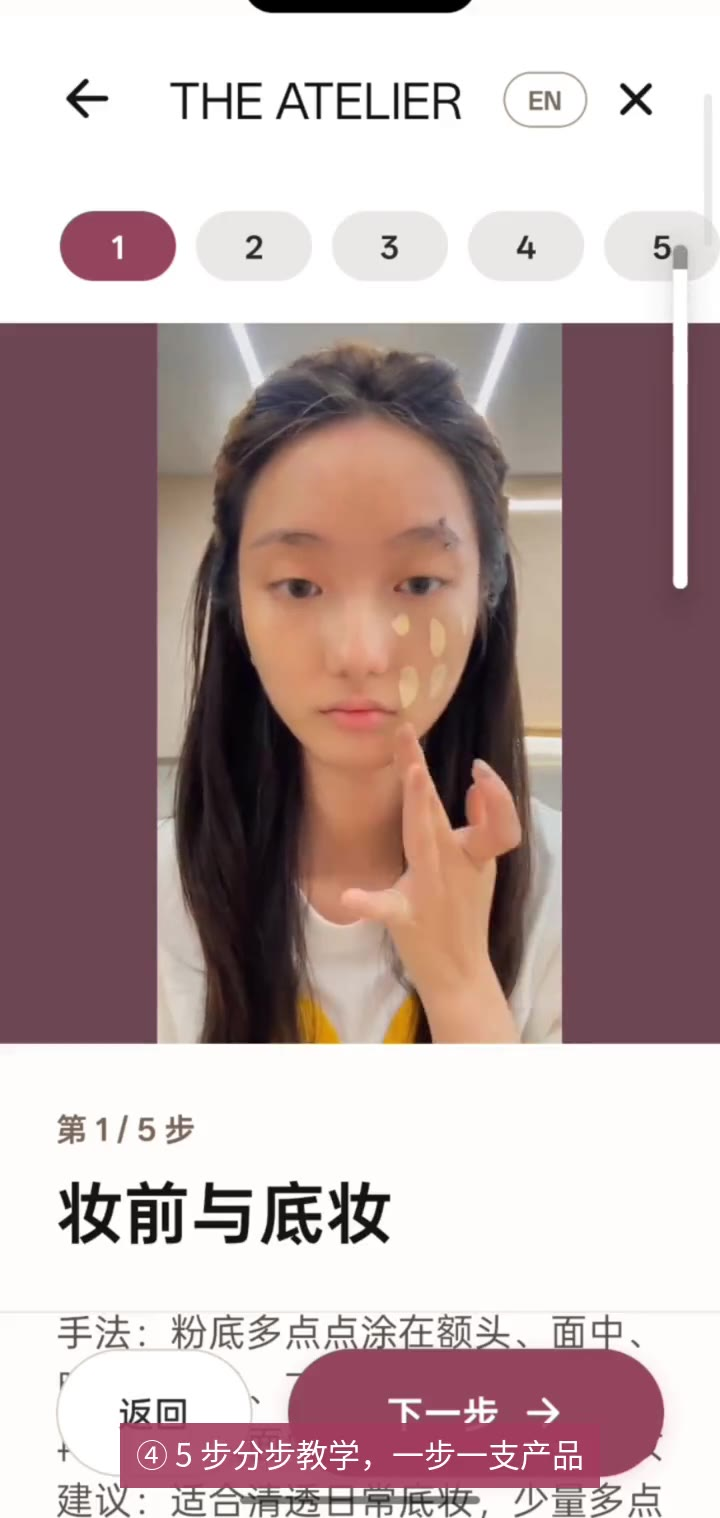
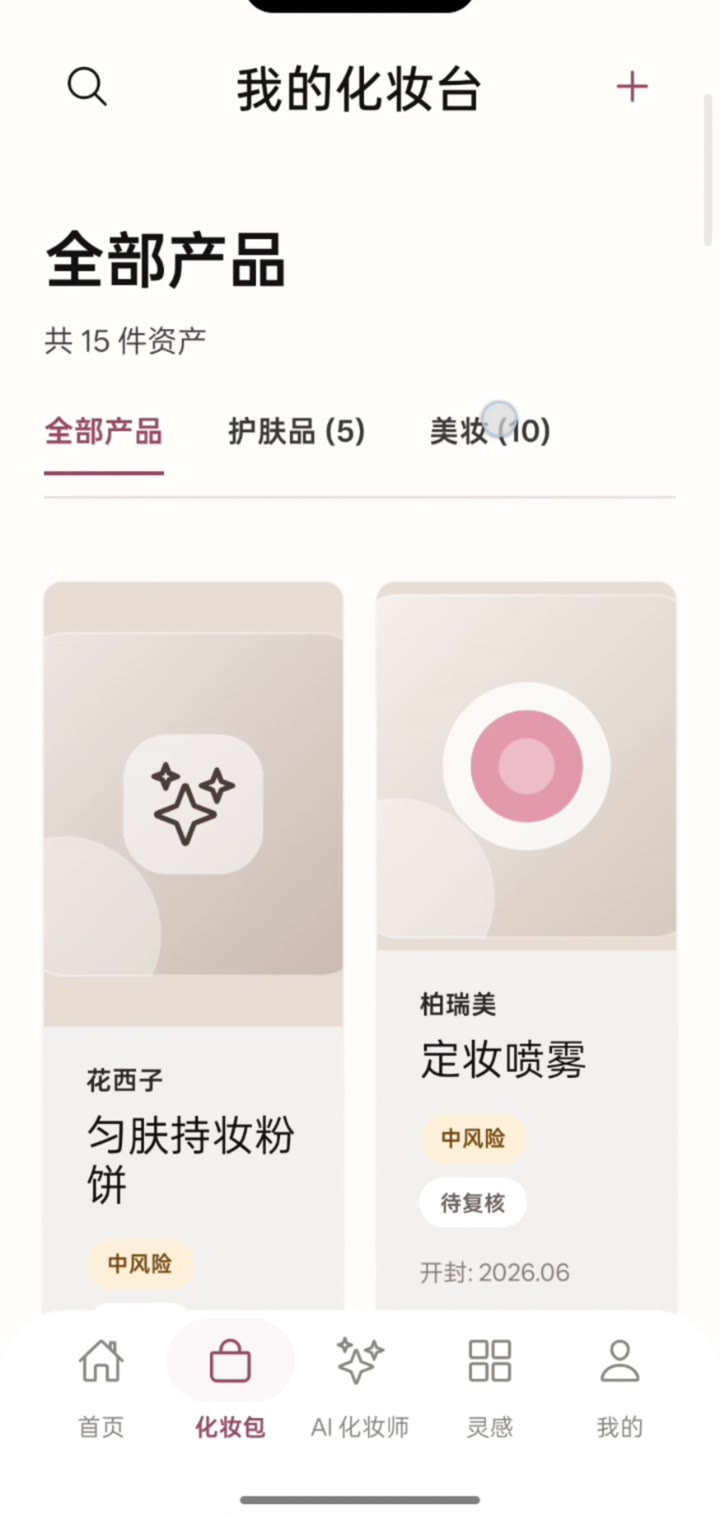
作品集:MMU 封面换核心界面 + 首页 Demo 按钮放大高亮
- MMU Demo 页封面改用「我的化妆台」核心产品界面(产品库,无人脸),替换原来的化妆特写帧
- 首页两个「进入 Demo」按钮改为暖玫瑰渐变、加「在线 DEMO」标签与播放图标、放大加投影,从藏青正文里跳出来

Claude-Session: https://claude.ai/code/session_01N22tcZ3Z2EU4wKMArb6GZ9

diff --git a/index.html b/index.html
@@ -141,15 +141,15 @@
   }
 
   /* demo CTA */
-  .demo-cta{display:flex;align-items:center;justify-content:space-between;gap:14px;background:var(--navy);color:#fff;border-radius:8px;padding:16px 20px;margin:10px 0 2px;text-decoration:none;}
-  .demo-cta:hover{background:var(--navy-deep);text-decoration:none;}
-  .demo-cta b{font-size:15px;display:block;}
-  .demo-cta span{font-size:12.5px;color:#CBD9EF;}
-  .demo-cta .go{font-weight:800;white-space:nowrap;font-size:14px;}
-  .demo-cta.soft{background:var(--navy-soft);color:var(--ink);}
-  .demo-cta.soft span{color:var(--ink-soft);}
-  .demo-cta.soft .go{color:var(--navy);}
-  .demo-cta.soft:hover{background:#DCE4F2;}
+  .demo-cta{display:flex;align-items:center;gap:16px;background:linear-gradient(135deg,#B23E63,#D0684A);color:#fff;border-radius:14px;padding:22px 26px;margin:18px 0 4px;text-decoration:none;box-shadow:0 10px 26px rgba(178,62,99,.30);transition:transform .15s ease,box-shadow .15s ease;}
+  .demo-cta:hover{transform:translateY(-2px);box-shadow:0 14px 32px rgba(178,62,99,.40);text-decoration:none;}
+  .demo-cta .play{flex:none;width:48px;height:48px;border-radius:50%;background:rgba(255,255,255,.22);display:flex;align-items:center;justify-content:center;font-size:19px;line-height:1;}
+  .demo-cta .txt{flex:1;min-width:0;}
+  .demo-cta .lead-in{display:inline-block;font-size:10.5px;font-weight:800;letter-spacing:.14em;background:rgba(255,255,255,.24);border-radius:20px;padding:2px 10px;margin-bottom:7px;}
+  .demo-cta b{font-size:17px;display:block;line-height:1.35;margin-bottom:3px;}
+  .demo-cta span.dsc{font-size:13px;color:rgba(255,255,255,.92);line-height:1.5;display:block;}
+  .demo-cta .go{font-weight:800;white-space:nowrap;font-size:16px;}
+  @media (max-width:720px){.demo-cta{padding:18px 18px;gap:12px;}.demo-cta .go{display:none;}.demo-cta b{font-size:15.5px;}}
   /* responsive */
   @media (max-width:720px){
     .sheet{margin:0;box-shadow:none;}
@@ -265,7 +265,7 @@
           <div class="arr">→</div>
           <div class="step">完成度<br>反馈</div>
         </div>
-        <a class="demo-cta" href="mmu/"><div><b>▶ 看 MMU 真机录屏与界面</b><span>内测版 App 主链路：识别化妆品 → 生成妆容 → 分步教学 → 反馈</span></div><span class="go">进入 Demo 页 →</span></a>
+        <a class="demo-cta" href="mmu/"><span class="play">▶</span><span class="txt"><span class="lead-in">在线 DEMO</span><b>MMU 真机录屏与界面</b><span class="dsc">识别化妆品 → 生成妆容 → 分步教学 → AI 实时指导</span></span><span class="go">打开 →</span></a>
       </div>
 
       <div class="block">
@@ -336,7 +336,7 @@
           <div class="arr">→</div>
           <div class="step">研读报告</div>
         </div>
-        <a class="demo-cta" href="gopherpaper/"><div><b>▶ 60 秒真实录屏：提问 → 答案带页码 → 一键跳回原文</b><span>含界面截图、架构说明、自建 50 题评测结果</span></div><span class="go">进入 Demo 页 →</span></a>
+        <a class="demo-cta" href="gopherpaper/"><span class="play">▶</span><span class="txt"><span class="lead-in">在线 DEMO</span><b>GopherPaper 录屏 + 自建评测</b><span class="dsc">提问 → 答案带页码 → 一键跳回原文，含架构与 50 题评测结果</span></span><span class="go">打开 →</span></a>
       </div>
 
       <div class="block">
